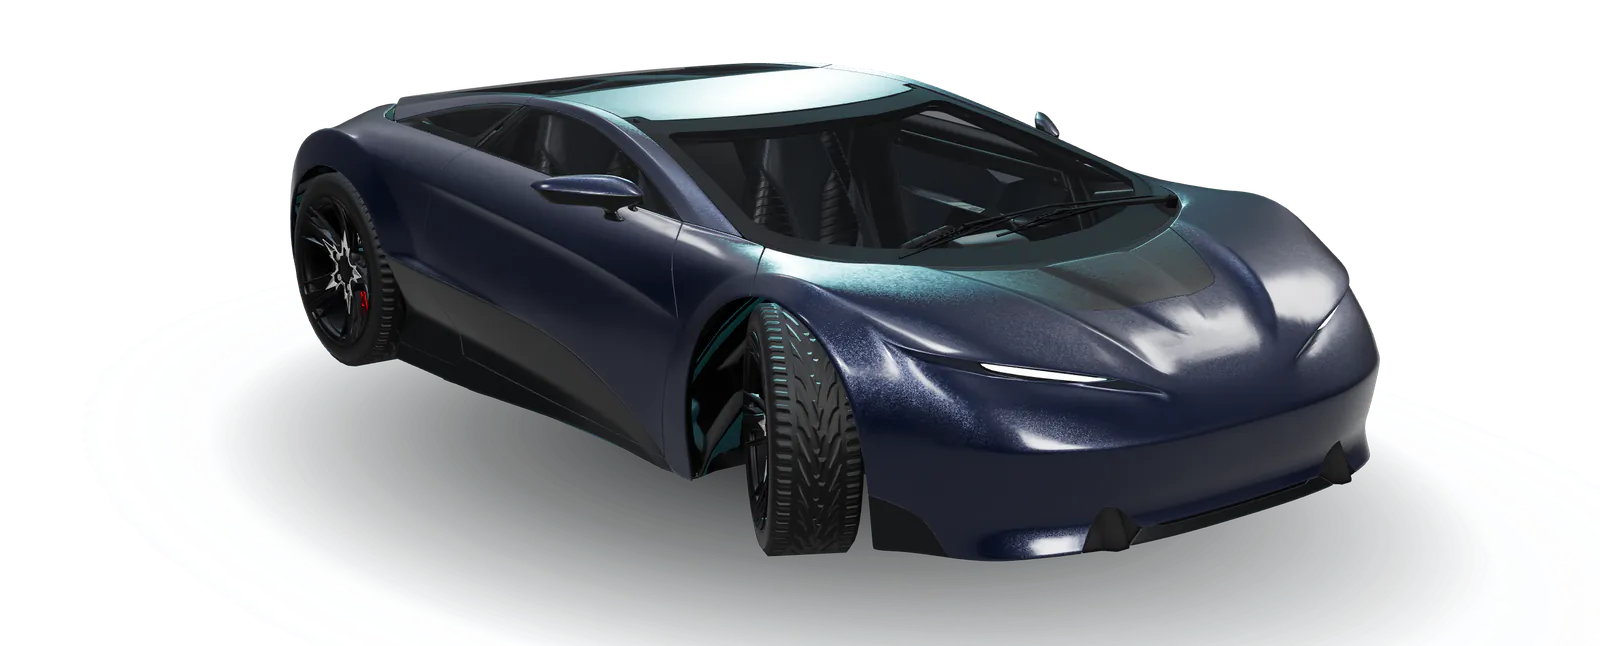
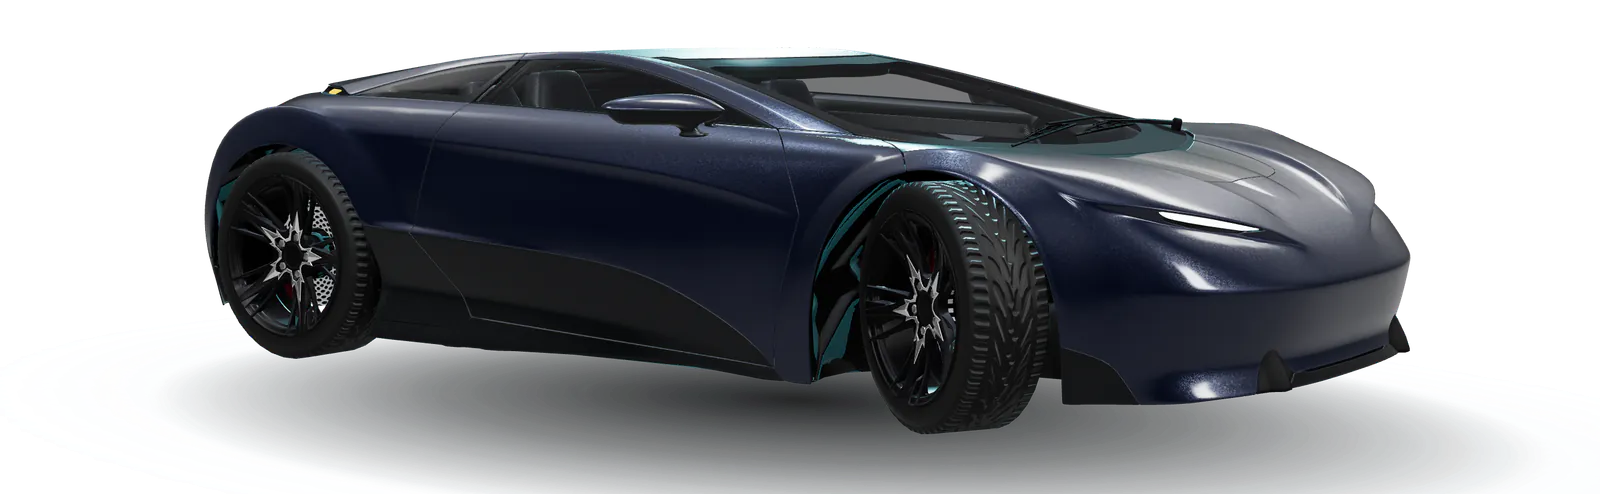
Chapter V: better opening angle

diff --git a/src/story/chapters/yours-look.js b/src/story/chapters/yours-look.js
@@ -3,9 +3,11 @@
 // the live car is in place and when there is no 3D, so the two always match. Pure data and arithmetic: no
 // DOM, so Node can import it too.
 
-// the turntable: the car starts at the manifest's "yours" shot (the hero's three-quarter) and turns
-// TURN degrees as the chapter scrolls by, slowly and evenly. Reduced motion: it stays at the start.
-export const TURN = 60;
+// the turntable: the car starts at the manifest's "yours" shot (a low front three-quarter, more of the
+// flank than the windscreen: the paint reads best on the side panels) and turns TURN degrees as the
+// chapter scrolls by, slowly and evenly, round toward the full side view (negative: the way that shows
+// more of the flank). Reduced motion: it stays at the start.
+export const TURN = -60;
 export const turnAt = (p) => TURN * Math.min(1, Math.max(0, p));
 
 // the light: as Chapter III leaves it (lit as in the hero, with the story's roofline light and floor

diff --git a/src/styles/story.css b/src/styles/story.css
@@ -29,7 +29,9 @@ html[data-buttons="pill"] .btn--outline::after { content: none; }
 /* one still per chapter: the stage shows the one whose chapter has the car (data-shot, story.js). A change
    of chapter brings the next still in over the last, which goes only once it is covered, so the stage never
    shows an empty moment between them. */
-.story__still--yours { inset: auto; left: 0; top: 0; width: 0; height: 0; opacity: 0; } /* placed by yours.js */
+/* placed by yours.js; with its shadow margin it can be wider than the screen (the stage clips it), so the
+   page's img max-width must not squeeze it out of shape */
+.story__still--yours { inset: auto; left: 0; top: 0; width: 0; height: 0; max-width: none; max-height: none; opacity: 0; }
 .story__stage[data-shot="yours"] .story__still--power { opacity: 0; }
 .story__stage[data-shot="yours"] .story__still--yours { opacity: 1; }
 @media (prefers-reduced-motion: no-preference) {

diff --git a/index.html b/index.html
@@ -143,7 +143,7 @@
              chapter's free band exactly as it fits the live car there. -->
         <img class="story__still story__still--yours" data-still="yours"
              src="/vehicle/posters/yours-1600.webp" srcset="/vehicle/posters/yours-800.webp 800w, /vehicle/posters/yours-1600.webp 1600w"
-             sizes="(max-width: 639px) 100vw, 80vw" width="2698" height="1090" alt="" loading="lazy" decoding="async">
+             sizes="(max-width: 639px) 100vw, 80vw" width="2698" height="833" alt="" loading="lazy" decoding="async">
       </div>
       <div class="story__canvas" data-story-canvas></div>
       <span class="hud-tag story__standin" data-story-standin hidden>Stand-in 3D model<span class="hud-tag__dot"></span></span>
